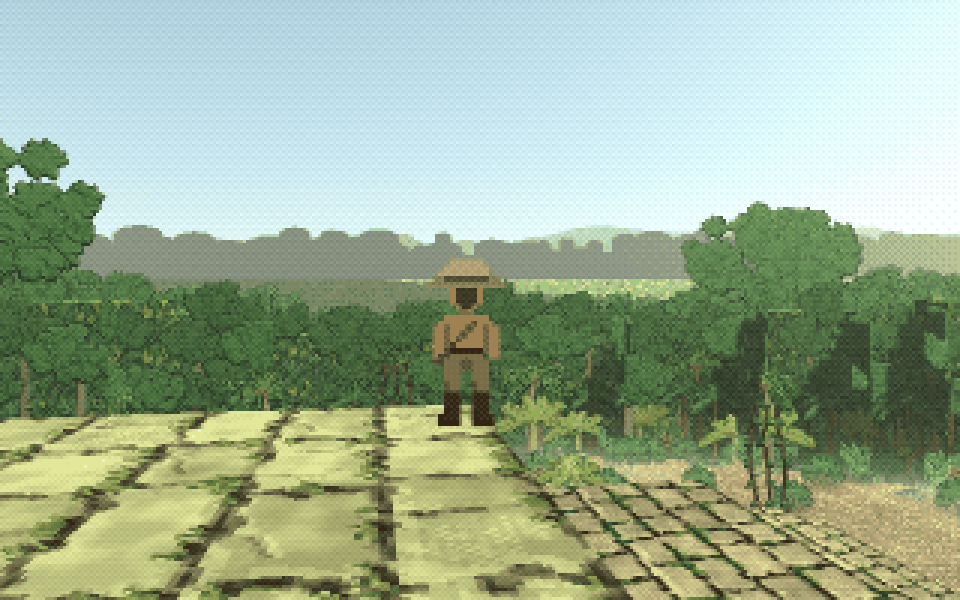
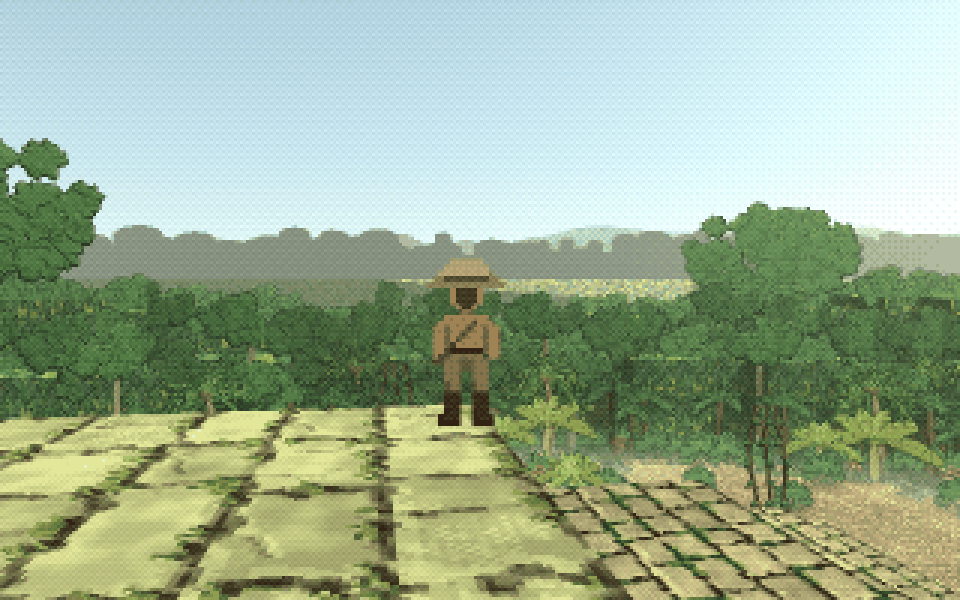
The jungle temple's tree line natural, not the grid's; no clipped hedges
The ninth item of the user's polish list: the jungle temple's tree line
broken up into a natural, polygonal edge instead of the grid's hard
angles. Its fringe now wanders (`"wander": 0.3`, 1.4 deep), so the trees
stand along a rounded, wandering line round the clearing and down the
path under the canopy. And the canopy walls within two cells of open
ground are all at the canopy's lowest height: their steps, 2.5 to 4 in
0.3s, showed between the trees from the pyramid top like clipped
hedges. Now that view is a forest edge. The temple shot is all but
unchanged, the jaguar's untouched.

The ruins recipe catches up with the columns in 3D.

Changed region(s): [[0.0, 0.45, 1.0, 0.84], [0.9062, 0.39, 1.0, 0.45]]

diff --git a/examples/jungle_temple.py b/examples/jungle_temple.py
@@ -1,7 +1,8 @@
 """Jungle temple: a stepped pyramid swallowed by the rainforest, reached by a path under the canopy.
 
 Shows the jungle textures, plants and animals, a `fringe` of layered foliage cards in front of
-every face of the jungle (bushes at the front, a dense wall of trees at the back), plants as
+every face of the jungle (bushes at the front, a dense wall of trees at the back) laid along a
+natural, wandering line (`wander`) rather than the grid's square corners, plants as
 crossed planes, prefabs, sunlight falling in shafts through holes in a leaf ceiling, ground
 mist, a pyramid built from the heights layer and wall stacks (a cornice on the top storey of
 every tier), giant trees standing clear of a rolling canopy, and a view from the top of the
@@ -64,6 +65,13 @@ for y in range(H):
         if g.get(x, y) == 'J':
             swell = math.sin(x * 0.31 + 1.3) + math.sin(y * 0.27 + 0.4) + 0.6 * math.sin((x + y) * 0.53)
             g.put(x, y, CANOPY[min(5, max(0, int((swell + 1.8) * 1.6)))])
+# ...but level within two cells of open ground, so the fringe's trees make the forest's edge and no
+# steps of the canopy show between them like clipped hedges
+edge = [(x, y) for y in range(H) for x in range(W) if g.get(x, y) in CANOPY
+        and any(g.get(x + dx, y + dy) not in CANOPY + 'T'
+                for dx in range(-2, 3) for dy in range(-2, 3) if 0 <= x + dx < W and 0 <= y + dy < H)]
+for x, y in edge:
+    g.put(x, y, 'J')
 
 # tree crowns along the top of the canopy, thick near the clearing, so its edge is a line of
 # rounded crowns against the sky and the view from the pyramid is a sea of them
@@ -87,8 +95,8 @@ s = scene(
     heights=[''.join(r) for r in heights],
     ceiling_height=2.5,
     legend={
-        **{c: {'wall': 'jungle_leaves', 'h': 2.5 + 0.3 * i, 'top': 'canopy_top', 'fringe': 'jungle'}
-           for i, c in enumerate(CANOPY)},
+        **{c: {'wall': 'jungle_leaves', 'h': 2.5 + 0.3 * i, 'top': 'canopy_top',
+               'fringe': {'set': 'jungle', 'depth': 1.4, 'wander': 0.3}} for i, c in enumerate(CANOPY)},
         'T': {'wall': 'jungle_bark', 'h': 3.4, 'top': 'canopy_top'},
         ',': {'floor': 'jungle_floor'},
         'c': {'floor': 'jungle_floor', 'ceil': 'canopy'},

diff --git a/docs/ASSETS.md b/docs/ASSETS.md
@@ -61,7 +61,7 @@ From going through the catalog. One scene at a time, each done properly; no rush
 - [x] **cathedral_ruin** - the pillars modelled in 3D (octagonal) instead of billboards, and moved inward to where they would carry the roof. Done: two arcades of octagonal piers of `ashlar` (dressed stone in drums, plinths and capitals) 3.2 in from each wall between the windows, carrying timber wall plates (`beam`) under the roof; the pier under the fallen roof broken off ragged, its plate down on the floor; the pews between the arcades, behind the cameras.
 - [x] **ancient_ruins** - the pillars remodelled in 3D, as for the cathedral; perhaps the fallen statue's head in 3D too (not a priority). A scene to give more love. Done: the peristyle and the sacred way's columns are fluted Doric columns of `marble` in 3D (`flutes`, `doric`), laid in drums, architraves and cornices (`beam`) across the runs that stand, the rest snapped off (`broken`) or fallen; the `ruined_columns` prefab in 3D; `fill` so the backlit columns are not black; a new shot, `ruins_columns`. The statue's head is still a billboard.
 - [x] **bayou** - the trees redone with the jungle's layered fringe, its layers spread further apart, so the trees look properly 3D. Done: the swamp fringe in four layers (a new middle stand; no more moss curtains hanging in the air on their own bough, which read as signboards over the trees) spread three cells out from the wall along a natural, wandering line (`wander`, new) - the heron's shot now looks into a misty forest of trunks at every depth, and the canopy behind the shack is whole.
-- [ ] **jungle_temple** - the tree line broken up as the aquarium's rock wall was: a natural, polygonal edge instead of the hard grid angles. A scene to give more love.
+- [x] **jungle_temple** - the tree line broken up as the aquarium's rock wall was: a natural, polygonal edge instead of the hard grid angles. A scene to give more love. Done: the jungle's fringe `wander`s (1.4 deep), so the trees stand along a natural, polygonal line round the clearing and down the path; the canopy is one height within two cells of open ground, so no steps of it show between the trees - the view from the pyramid top is a forest edge, not clipped hedges.
 
 New scenes:
 
@@ -1096,7 +1096,7 @@ The environments, judged on their gallery images and shots.
 
 | scene | status | shots | gallery | notes |
 |---|---|---|---|---|
-| `jungle_temple` | good | 4 | jungle_path, jungle_temple, jungle_jaguar, jungle_canopy | The canopy from the pyramid top still shows hedge-like steps up close. |
+| `jungle_temple` | good | 4 | jungle_path, jungle_temple, jungle_jaguar, jungle_canopy | The fringe wanders and the canopy is level by open ground, so from the pyramid top the clearing's edge is a line of trees, not stepped hedges. |
 | `ancient_ruins` | good | 5 | ruins_way, ruins_head, ruins_night, ruins_columns | The cella shot could use shafts of light through the columns. Adding a shot moves the scatter (it is kept off cameras and sight lines): place a new one where none lies. |
 | `red_canyon` | good | 4 | canyon_wash, canyon_ruins, canyon_slot, canyon_sunset | A wash between ragged walls of layered sandstone, saguaros, cliff-dwelling ruins, a slot canyon lit by one beam, the wall at sunset. |
 | `tropical_beach` | good | 5 | beach_sunset, beach_pier, beach_day, beach_night, beach_flare | A palm-fringed lagoon at sunset, the pier and the hut, midday, glowing surf at night by a fire; into the sun with a lens flare. |
@@ -1104,6 +1104,7 @@ The environments, judged on their gallery images and shots.
 ## Pass log
 
 - **2026-10-19, pass 0.** First full review of every asset, on review sheets and in the gallery. This file and `docs/asset_review.py` were added.
+- **2026-10-21, the jungle's edge.** The user's ninth: the jungle temple's tree line natural and polygonal, not the grid's. Its fringe now `wander`s, 1.4 deep, round the clearing and down the path under the canopy; and the canopy walls within two cells of open ground are all at its lowest height, because their steps (2.5 to 4 in 0.3s) showed between the trees as clipped hedges from the pyramid top. The temple shot is all but unchanged.
 - **2026-10-21, the bayou's trees.** The user's eighth: the swamp's layers spread further apart. A fringe can now `wander`: each layer one line the same distance out from the forest all along (marching squares on the distance from it, sampled four to a cell), round at the corners, wandering in and out on smooth noise, cut into straight cards (`_chords`: never under 0.6, so a sharp bend makes no sliver - a slice of forest seen face on reads as a tower) that carry the picture on from one to the next and fade out seen almost edge on (`edge_fade`, new). Layers stop at other walls; all but the back one keep 0.75 clear of them, so the shack has trees behind it and none squeezed beside it, and pieces broken where a layer grazes a corner are joined (no slit of sky). The swamp set in four layers, its back stand denser and taller so the wall's flat top never shows, and without the floating moss.
 - **2026-10-21, the temple's columns.** The user's seventh: the ancient ruins' columns in 3D. `column` gains `flutes` (every face hollowed: its normal bends across it, `tilt` in _stone, so it takes the light on one side and shadow on the other) and `"doric": true` (an echinus - frustums can now widen upward - under a square abacus); a `marble` stone in drums. The peristyle's painted see-through colonnade walls became columns on the stylobate with architraves and cornices (`beam`) over every run of three that still stand; the sacred way's and the fallen groups' columns too (prefabs can now carry `objects`). Backlit by the low sun the columns went black, so objects take `fill`: light from the sky and the ground on the faces the sun misses, a multiple of the scene's ambient, so it dims at night. A fluted column is one stone round: every face cut from the same block, so a drum is one tone and its patina runs on round it (cut a face at a time, the patches stopped at the faces' edges and read as holes); marble seldom cracks. New shot `ruins_columns`, the fallen group in the sun from the west - turned by `angle` and `pitch` and stood where no scatter is, because a shot keeps scatter off its camera and its sight lines and a new one reshuffled the poppies out of `ruins_head`. The statue's head is still a billboard.
 - **2026-10-21, the cathedral's arcades.** The user's sixth: the nave on two rows of octagonal stone piers moved in from the walls to carry the roof - `column` objects in a new `ashlar` stone (pale, laid in courses, `courses`, so a column reads as drums), with plinths and capitals - carrying timber wall plates, a new `beam` object; the pier where the roof fell in broken off (`broken`: each corner stops at its own height, the break a fan of rough triangles) and a length of its plate down on the floor. Shot 2's camera moved into the aisle and the pews behind the cameras, so the arcades and the light read.

diff --git a/references/recipes.md b/references/recipes.md
@@ -17,7 +17,7 @@ Build them as wall cells of `["menhir", "menhir_top"]` at different heights (a `
 
 ### Jungle, ruins and beaches
 
-A jungle is walls of `jungle_leaves` at a few heights (2.5-4) with `canopy_top` tops and `"fringe": "jungle"`, which stands four layered cards of trees and bushes in front of every face that looks onto open ground - so leave a cell of open ground in front of the walls for it, and make paths two cells wider than they should look. Add a `canopy` ceiling over the paths with a few cells left open for shafts of sun in the mist, `kapok` giants standing clear of it, and `canopy_crown` props on the wall tops so its edge is rounded crowns; plants (`banana_plant`, `monstera`, `heliconia`, `tree_fern`, `liana`, the `jungle` scatter set), a `jaguar` and a `macaw`. A stepped pyramid is rings of `heights` a unit apart, each tier's wall stack ending in `temple_cornice`, stairs up one face, a `temple_door` shrine and a `roof_comb`. Classical ruins: the colonnade wall stacks, `column` props scaled to ~3 along a sacred way, `limestone`, `ruin_paving`, `dry_grass`, `cypress`, `olive_tree`, `marble_head`, `goat`, a `hoplite`, the `ruins` scatter set, under `golden`. A beach: `beach_sand`, a band of `wet_sand`, `shallows` then `sea`, all at ground level; a row of `surf` props along the waterline, `palm` and `palm_lean`, a hut of `["bamboo", "thatch"]` walls, `tiki_torch`, `canoe`, `hammock`, the `beach` scatter set and the `islands` skyline under `sunset`; a pier of low `boards` blocks on wooden piles - `column` objects of `"material": "wood"` down both edges, `sink` 0.06 so they stand in the water - and the jungle behind it with a `jungle` fringe. See `examples/jungle_temple.py`, `ancient_ruins.py`, `tropical_beach.py`.
+A jungle is walls of `jungle_leaves` at a few heights (2.5-4) with `canopy_top` tops and `"fringe": {"set": "jungle", "depth": 1.4, "wander": 0.3}`, which stands four layered cards of trees and bushes in front of every face that looks onto open ground, along a natural, wandering line - so leave a cell or two of open ground in front of the walls for it, and make paths two cells wider than they should look. Keep the canopy at one height within two cells of open ground, so the fringe's trees make the edge and no steps of the canopy show between them like clipped hedges. Add a `canopy` ceiling over the paths with a few cells left open for shafts of sun in the mist, `kapok` giants standing clear of it, and `canopy_crown` props on the wall tops so its edge is rounded crowns; plants (`banana_plant`, `monstera`, `heliconia`, `tree_fern`, `liana`, the `jungle` scatter set), a `jaguar` and a `macaw`. A stepped pyramid is rings of `heights` a unit apart, each tier's wall stack ending in `temple_cornice`, stairs up one face, a `temple_door` shrine and a `roof_comb`. Classical ruins: `column` objects of `"material": "marble"` with `"flutes": 20` and `"doric": true` on a stylobate, `beam` architraves and cornices across the runs that stand, others `broken` off, `"fill": 1.0` if the low sun is behind them; `limestone`, `ruin_paving`, `dry_grass`, `cypress`, `olive_tree`, `marble_head`, `goat`, a `hoplite`, the `ruins` scatter set, under `golden`. A beach: `beach_sand`, a band of `wet_sand`, `shallows` then `sea`, all at ground level; a row of `surf` props along the waterline, `palm` and `palm_lean`, a hut of `["bamboo", "thatch"]` walls, `tiki_torch`, `canoe`, `hammock`, the `beach` scatter set and the `islands` skyline under `sunset`; a pier of low `boards` blocks on wooden piles - `column` objects of `"material": "wood"` down both edges, `sink` 0.06 so they stand in the water - and the jungle behind it with a `jungle` fringe. See `examples/jungle_temple.py`, `ancient_ruins.py`, `tropical_beach.py`.
 
 ### Deserts and canyons
 
